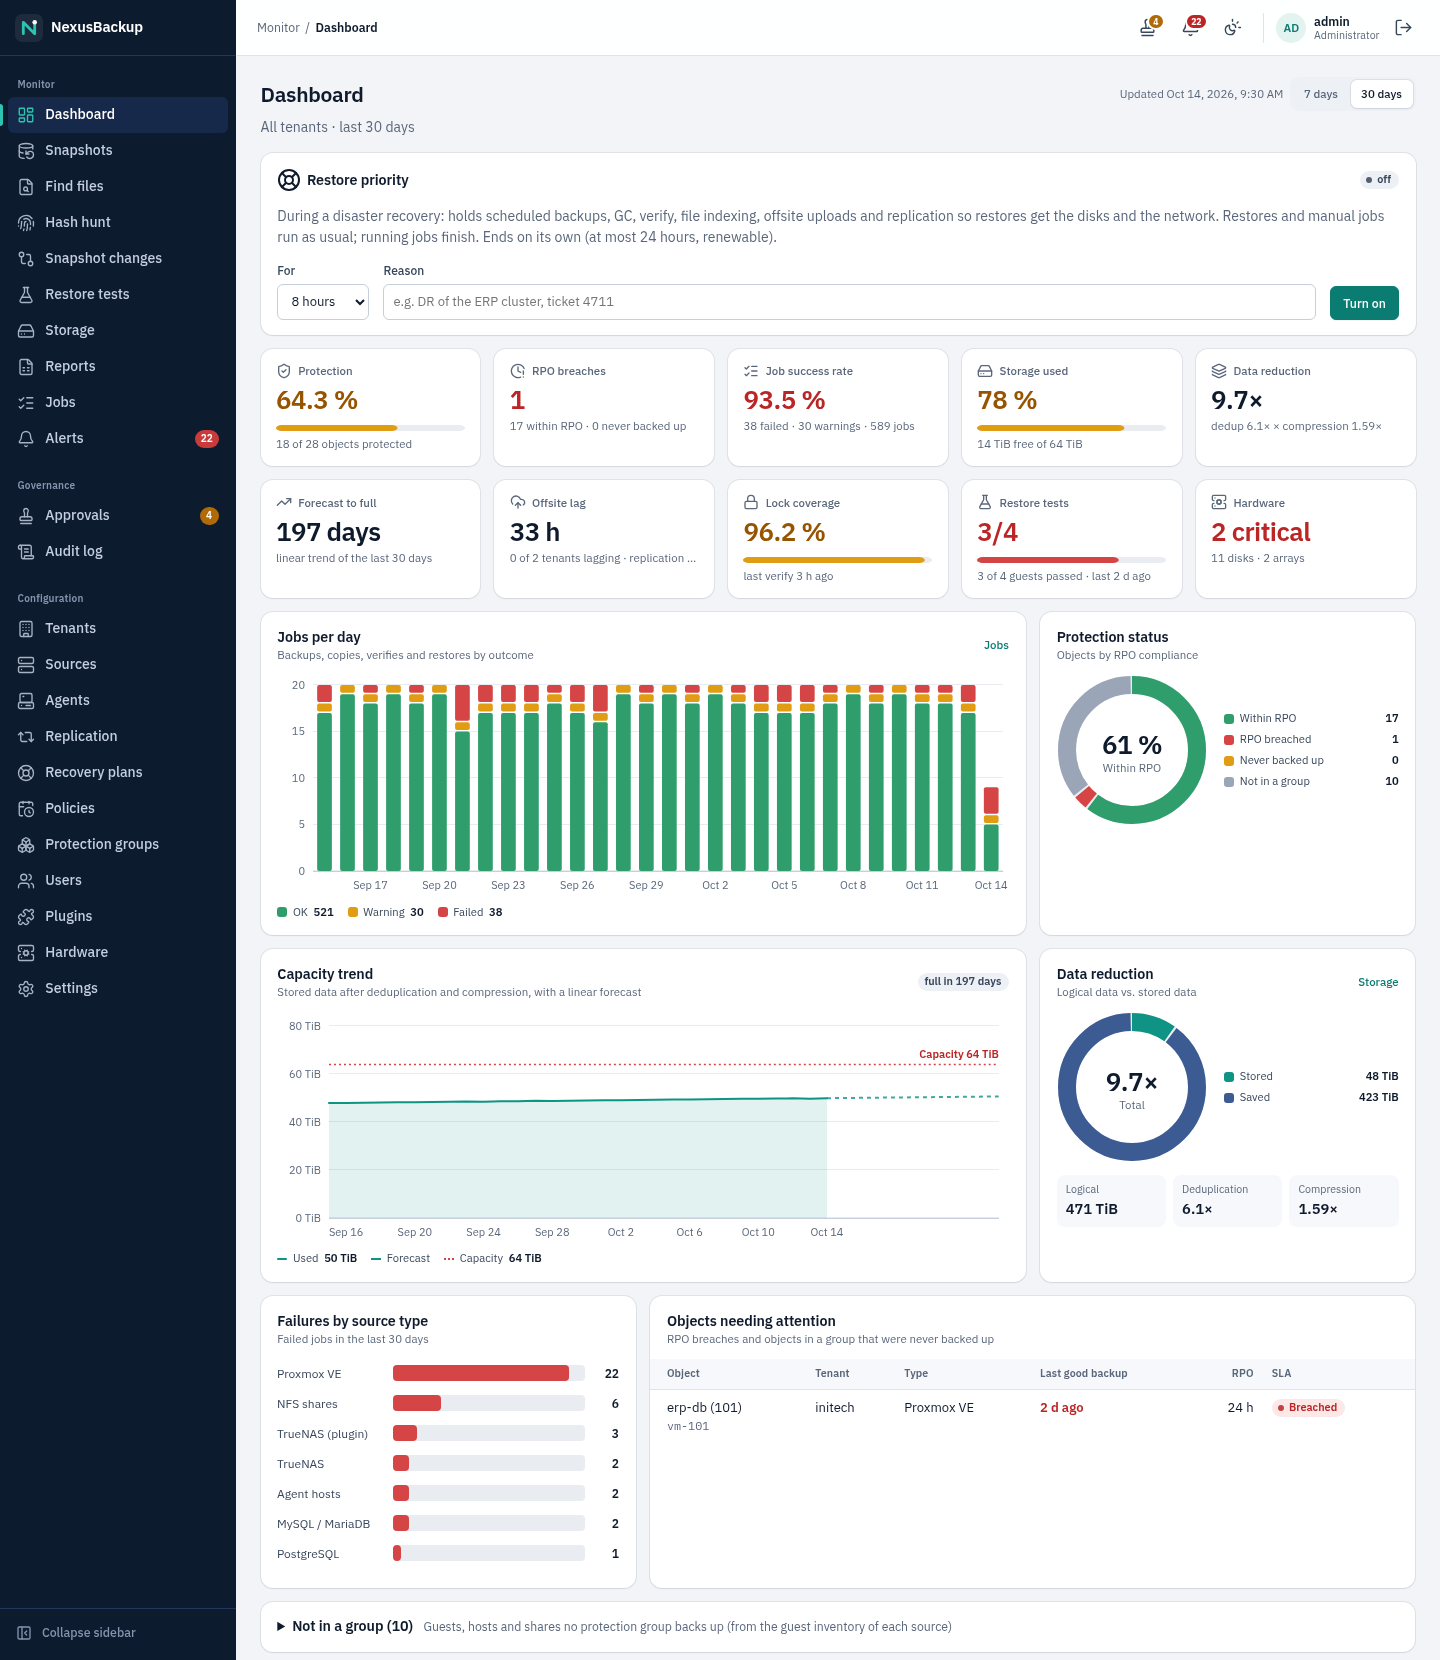
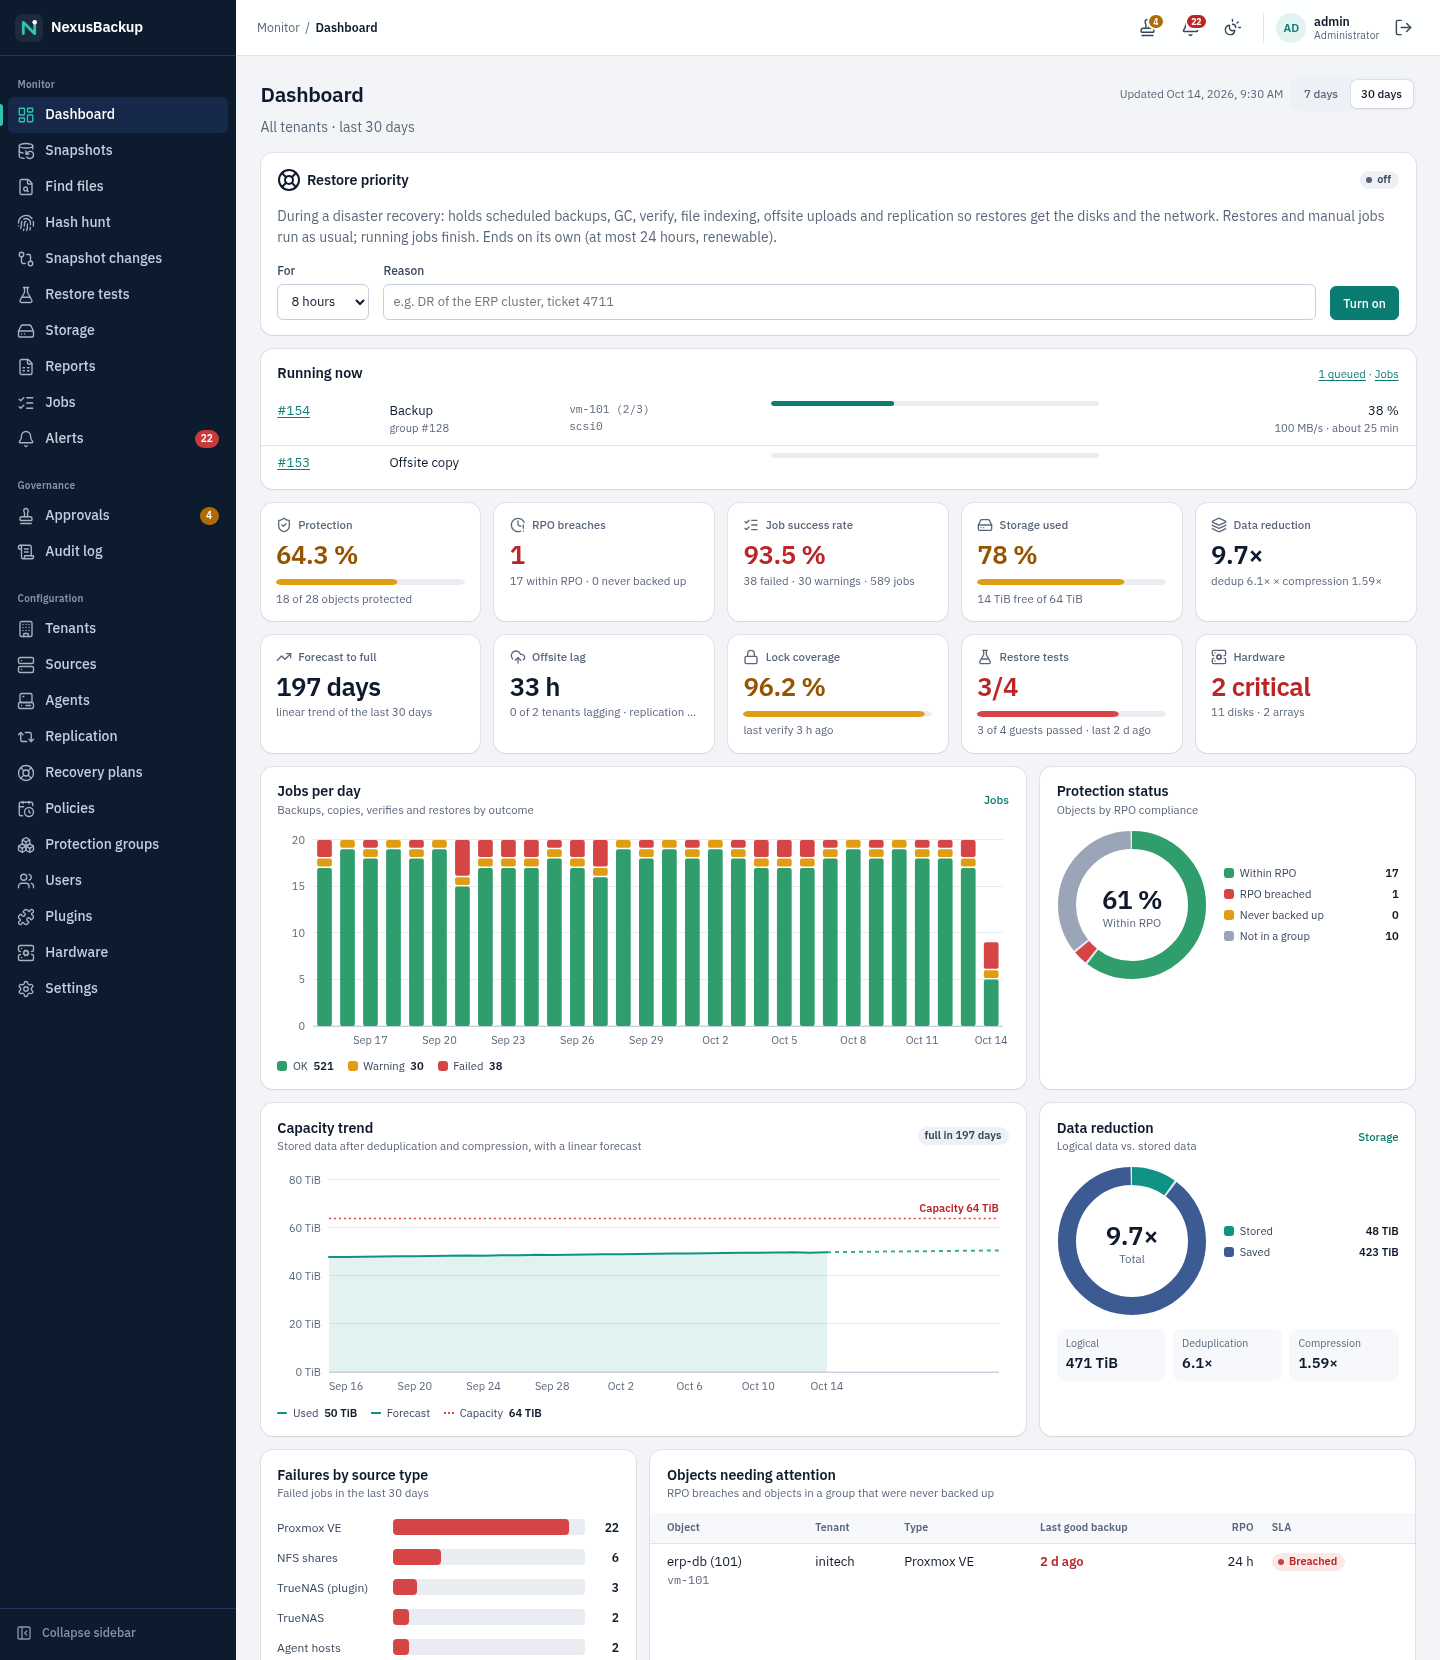
UI dashboard: Running now (jobs with progress, rate or entries/s, ETA, queued count; rows open the job), every key-figure tile opens its page

diff --git a/web/src/components/RunningJobs.svelte b/web/src/components/RunningJobs.svelte
@@ -1,0 +1,108 @@
+<script lang="ts">
+  // The jobs running right now (and how many wait), refreshed every 3 s: the
+  // dashboard's answer to "is anything happening?". A row opens its job.
+  import { onMount } from 'svelte';
+  import { get } from '../lib/api';
+  import { href } from '../lib/router.svelte';
+  import { rowLink } from '../lib/rowlink';
+  import { fmtDuration, fmtEntryRate, fmtRate } from '../lib/format';
+  import { kindLabel, jobSubject } from '../lib/jobs';
+  import { t } from '../lib/i18n';
+  import type { Job } from '../lib/types';
+  import ProgressBar from './ProgressBar.svelte';
+
+  let { groups = new Map<number, string>() }: { groups?: Map<number, string> } = $props();
+
+  let running: Job[] = $state([]);
+  let queued = $state(0);
+  let loaded = $state(false);
+
+  async function load() {
+    try {
+      const [r, q] = await Promise.all([get<Job[]>('/jobs?state=running'), get<Job[]>('/jobs?state=queued')]);
+      running = r;
+      queued = q.length;
+      loaded = true;
+    } catch {
+      /* the dashboard shows its own errors */
+    }
+  }
+
+  onMount(() => {
+    load();
+    const iv = setInterval(() => {
+      if (document.visibilityState === 'visible') load();
+    }, 3000);
+    return () => clearInterval(iv);
+  });
+
+  const pct = (j: Job) => j.progress?.percent ?? j.progress?.item_percent ?? null;
+</script>
+
+{#if loaded}
+  <section class="card running" aria-labelledby="rn">
+    <div class="head">
+      <h2 id="rn">{t.dash.runningNow}</h2>
+      <span class="muted small">
+        {#if queued}<a href={href('/jobs?state=queued')}>{t.dash.queuedN(queued)}</a> ·{/if}
+        <a href={href('/jobs')}>{t.nav.jobs}</a>
+      </span>
+    </div>
+    {#if running.length === 0}
+      <p class="muted">{queued ? t.dash.nothingRunningQueued : t.dash.nothingRunning}</p>
+    {:else}
+      <div class="table-wrap">
+        <table>
+          <tbody>
+            {#each running as j (j.id)}
+              {@const p = j.progress}
+              <tr use:rowLink={`/jobs/${j.id}`}>
+                <td class="nowrap"><a href={href(`/jobs/${j.id}`)}>#{j.id}</a></td>
+                <td>
+                  {kindLabel(j.kind)}
+                  {#if jobSubject(j, groups)}<div class="muted small">{jobSubject(j, groups)}</div>{/if}
+                </td>
+                <td class="muted small mono nowrap">
+                  {#if p?.item}{p.item}{p.items && p.item_index ? ` (${p.item_index}/${p.items})` : ''}{/if}
+                  {#if p?.part}<div>{p.part}</div>{/if}
+                </td>
+                <td class="wide">
+                  {#if pct(j) !== null}
+                    <ProgressBar size="s" value={pct(j)} label={t.jobs.progress} />
+                  {:else}
+                    <!-- no figures from this kind of job: how long it runs -->
+                    <span class="muted small">{t.dash.runningFor(fmtDuration(Math.max(0, Date.now() / 1000 - (j.started ?? j.created))))}</span>
+                  {/if}
+                </td>
+                <td class="num nowrap tabular">
+                  {pct(j) === null ? '' : `${Math.round(pct(j)!)} %`}
+                  <div class="muted small">
+                    {p?.rate ? fmtRate(p.rate) : p?.entries_rate ? fmtEntryRate(p.entries_rate) : ''}
+                    {#if (p?.eta ?? p?.item_eta) !== null && (p?.eta ?? p?.item_eta) !== undefined}
+                      · {t.jobs.etaAbout(fmtDuration((p?.eta ?? p?.item_eta)!))}{/if}
+                  </div>
+                </td>
+              </tr>
+            {/each}
+          </tbody>
+        </table>
+      </div>
+    {/if}
+  </section>
+{/if}
+
+<style>
+  .head {
+    display: flex;
+    justify-content: space-between;
+    align-items: baseline;
+    gap: 1rem;
+  }
+  td.wide {
+    width: 30%;
+    min-width: 8rem;
+  }
+  .small {
+    font-size: 0.8rem;
+  }
+</style>

diff --git a/web/src/pages/Dashboard.svelte b/web/src/pages/Dashboard.svelte
@@ -1,4 +1,5 @@
 <script lang="ts">
+  import RunningJobs from '../components/RunningJobs.svelte';
   import { rowLink } from '../lib/rowlink';
   import ConsistencyBadge from '../components/ConsistencyBadge.svelte';
   import { onMount } from 'svelte';
@@ -325,6 +326,8 @@
 {/if}
 {#if kpiError}<p class="banner warn" role="status">{kpiError}</p>{/if}
 
+<RunningJobs groups={new Map(groups.map((g) => [g.id, g.name]))} />
+
 {#if kpi && pr && jb && cap && os}
   <section class="kpis" class:nine={!!rtk !== !!hwSum} class:ten={!!rtk && !!hwSum} aria-label={t.dash.title}>
     <KpiTile
@@ -334,6 +337,7 @@
       sub={t.dash.kProtectionSub(pr.protected, pr.objects)}
       meter={pr.objects ? pr.protected / pr.objects : null}
       tone={pr.protected < pr.objects ? 'warn' : 'ok'}
+      href={href('/groups')}
     />
     <KpiTile
       icon={IconClock}
@@ -341,6 +345,7 @@
       value={String(pr.sla_breach)}
       sub={t.dash.kSlaSub(pr.sla_ok, pr.never)}
       tone={toneOf(pr.sla_breach > 0, pr.never > 0)}
+      href={href('/alerts')}
     />
     <KpiTile
       icon={IconJobs}
@@ -357,18 +362,21 @@
       sub={t.dash.kStorageSub(fmtBytes(cap.free), fmtBytes(cap.total))}
       meter={usedShare}
       tone={toneOf((usedShare ?? 0) > 0.9, (usedShare ?? 0) > 0.75)}
+      href={href('/storage')}
     />
     <KpiTile
       icon={IconLayers}
       label={t.dash.kReduction}
       value={fmtRatio(cap.reduction)}
       sub={t.dash.kReductionSub(fmtRatio(cap.dedup), fmtRatio(cap.compression))}
+      href={href('/storage')}
     />
     <KpiTile
       icon={IconTrend}
       label={t.dash.kForecast}
       value={cap.forecast_full_days === null ? t.dash.kForecastNone : t.dash.kForecastDays(cap.forecast_full_days)}
       sub={t.dash.kForecastSub}
+      href={href('/storage')}
       tone={toneOf(cap.forecast_full_days !== null && cap.forecast_full_days < 30, cap.forecast_full_days !== null && cap.forecast_full_days < 90)}
     />
     <KpiTile
@@ -387,6 +395,7 @@
       sub={t.dash.kVerify(fmtAgo(os.last_verify)) + (os.verify_failed ? ` · ${os.verify_failed} ${t.dash.failed_.toLowerCase()}` : '')}
       meter={os.lock_coverage}
       tone={toneOf(os.verify_failed > 0, os.lock_coverage !== null && os.lock_coverage < 1)}
+      href={href('/storage')}
     />
     {#if rtk}
       <KpiTile

diff --git a/web/src/lib/i18n.ts b/web/src/lib/i18n.ts
@@ -227,6 +227,11 @@ export const en = {
     toLogin: "Go to sign in",
   },
   dash: {
+    runningNow: "Running now",
+    queuedN: (n: number) => `${n} queued`,
+    runningFor: (d: string) => `running for ${d}`,
+    nothingRunning: "No job is running.",
+    nothingRunningQueued: "No job is running; queued jobs start as soon as their turn comes (see Jobs for why they wait).",
     title: "Dashboard",
     approvalsBanner: (n: number) =>
       `Approvals are disabled although ${n} people could approve. Enable them so that destructive or weakening actions need a second person.`,
